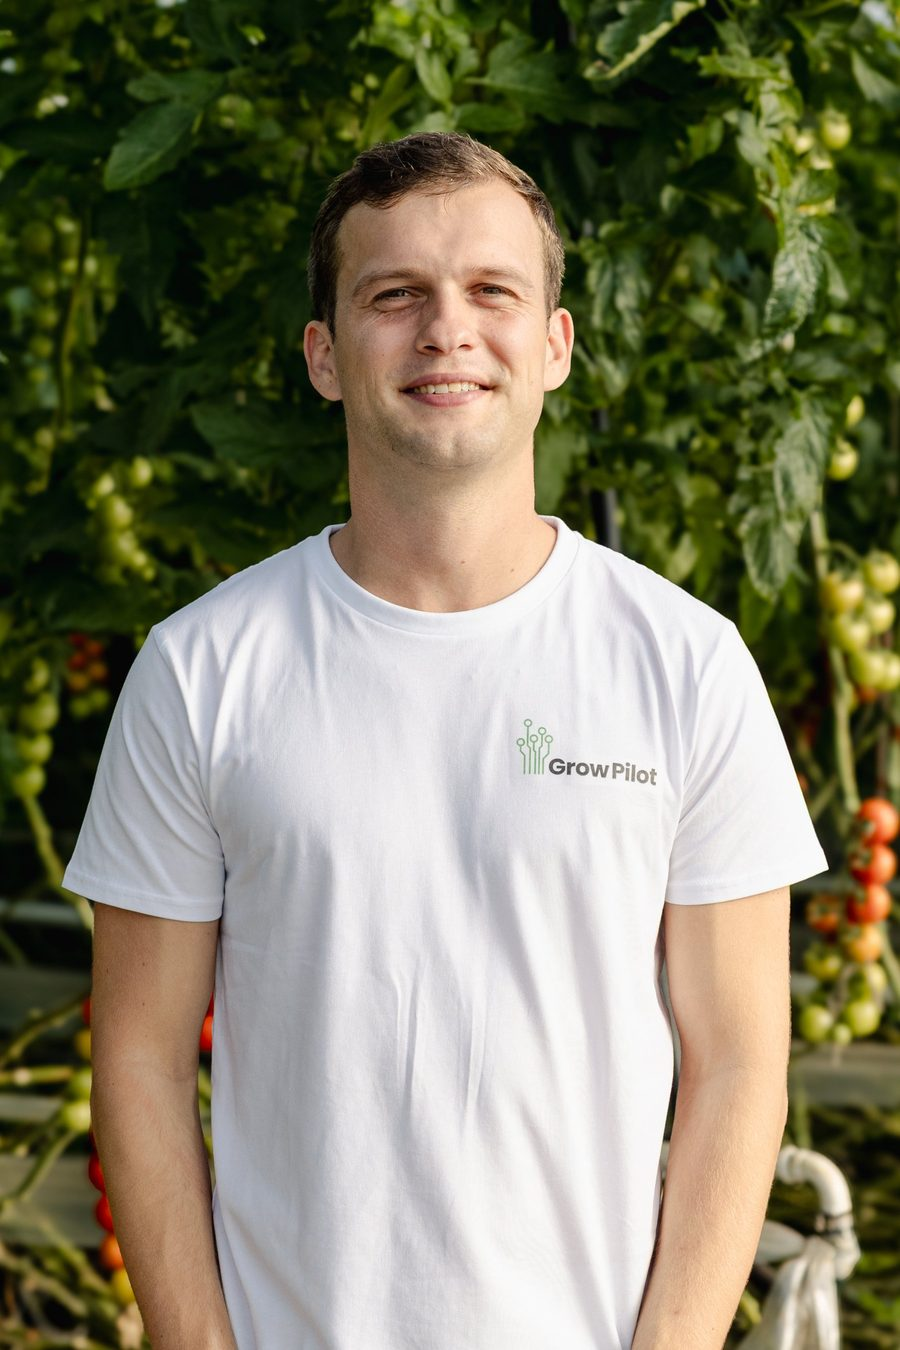
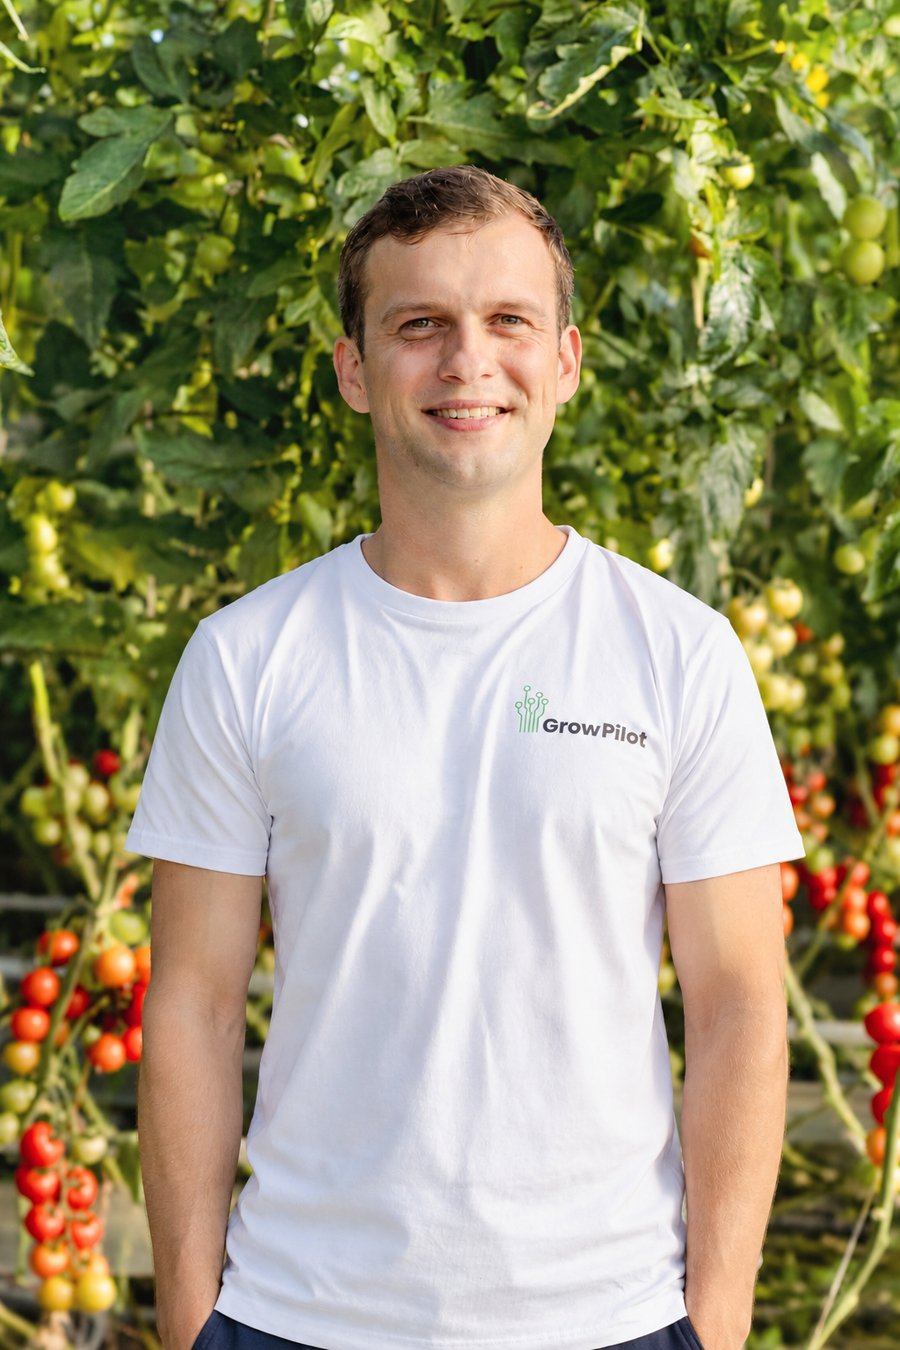
Add files via upload

diff --git a/over-ons/index.html b/over-ons/index.html
@@ -80,11 +80,11 @@ j=d.createElement(s),dl=l!='dataLayer'?'&l='+l:'';j.async=true;j.src=
   <div class="team">
     <div class="member">
       <div class="member-photo" style="background-image:url(/assets/img/lowie-2026.jpg);background-position:center 20%"></div>
-      <div><span class="badge badge-live">Teler</span><h3>Lowie Verbeek</h3><div class="member-role">Medeoprichter GrowPilot · Directeur BioVerbeek B.V.</div><p>Teelt biologisch paprika en tomaat op vier locaties in Velden. Zag dat de kwaliteit op de werkvloer te veel afhing van losse instructies en bedacht wat anders.</p><a href="https://www.linkedin.com/in/lowie-verbeek-ab9247170/" target="_blank" rel="noopener" class="textlink">LinkedIn →</a></div>
+      <div><span class="badge badge-live">Teler</span><h3>Lowie Verbeek</h3><div class="member-role">Bedenker GrowPilot · Directeur BioVerbeek B.V.</div><p>Teelt biologisch paprika en tomaat op vier locaties in Velden. Zag dat de kwaliteit op de werkvloer te veel afhing van losse instructies en bedacht wat anders.</p><a href="https://www.linkedin.com/in/lowie-verbeek-ab9247170/" target="_blank" rel="noopener" class="textlink">LinkedIn →</a></div>
     </div>
     <div class="member">
       <div class="member-photo" style="background-image:url(/assets/img/ramon-2026.jpg);background-position:center 20%"></div>
-      <div><span class="badge badge-live">Product &amp; klanten</span><h3>Ramon Bakker</h3><div class="member-role">Directeur &amp; Co-founder, GrowPilot</div><p>Vertaalt wat telers en voormannen aandragen naar ons development team. Aanspreekpunt voor demo's, inrichting en de wekelijkse begeleiding.</p><a href="https://www.linkedin.com/in/ramon-bakker-80317017/" target="_blank" rel="noopener" class="textlink">LinkedIn →</a></div>
+      <div><span class="badge badge-live">Product &amp; klanten</span><h3>Ramon Bakker</h3><div class="member-role">Directeur &amp; mede-eigenaar, GrowPilot B.V.</div><p>Vertaalt wat telers en voormannen aandragen naar ons development team. Aanspreekpunt voor demo's, inrichting en de wekelijkse begeleiding.</p><a href="https://www.linkedin.com/in/ramon-bakker-80317017/" target="_blank" rel="noopener" class="textlink">LinkedIn →</a></div>
     </div>
   </div>
 </section>

diff --git a/en/about/index.html b/en/about/index.html
@@ -77,11 +77,11 @@ j=d.createElement(s),dl=l!='dataLayer'?'&l='+l:'';j.async=true;j.src=
 <div class="team">
 <div class="member">
 <div class="member-photo" style="background-image:url(/assets/img/lowie-2026.jpg);background-position:center 20%"></div>
-<div><span class="badge badge-live">Grower</span><h3>Lowie Verbeek</h3><div class="member-role">Co-founder GrowPilot · Director BioVerbeek B.V.</div><p>Grows organic peppers and tomatoes on four sites in Velden. Saw that quality on the work floor depended too much on loose instructions and came up with something different.</p><a class="textlink" href="https://www.linkedin.com/in/lowie-verbeek-ab9247170/" rel="noopener" target="_blank">LinkedIn →</a></div>
+<div><span class="badge badge-live">Grower</span><h3>Lowie Verbeek</h3><div class="member-role">Creator of GrowPilot · Director BioVerbeek B.V.</div><p>Grows organic peppers and tomatoes on four sites in Velden. Saw that quality on the work floor depended too much on loose instructions and came up with something different.</p><a class="textlink" href="https://www.linkedin.com/in/lowie-verbeek-ab9247170/" rel="noopener" target="_blank">LinkedIn →</a></div>
 </div>
 <div class="member">
 <div class="member-photo" style="background-image:url(/assets/img/ramon-2026.jpg);background-position:center 20%"></div>
-<div><span class="badge badge-live">Product &amp; customers</span><h3>Ramon Bakker</h3><div class="member-role">Director &amp; Co-founder, GrowPilot</div><p>Translates what growers and foremen bring in for our development team. Point of contact for demos, setup and the weekly coaching.</p><a class="textlink" href="https://www.linkedin.com/in/ramon-bakker-80317017/" rel="noopener" target="_blank">LinkedIn →</a></div>
+<div><span class="badge badge-live">Product &amp; customers</span><h3>Ramon Bakker</h3><div class="member-role">Director &amp; co-owner, GrowPilot B.V.</div><p>Translates what growers and foremen bring in for our development team. Point of contact for demos, setup and the weekly coaching.</p><a class="textlink" href="https://www.linkedin.com/in/ramon-bakker-80317017/" rel="noopener" target="_blank">LinkedIn →</a></div>
 </div>
 </div>
 </section>

diff --git a/contact/index.html b/contact/index.html
@@ -60,7 +60,7 @@ j=d.createElement(s),dl=l!='dataLayer'?'&l='+l:'';j.async=true;j.src=
       <div><div class="fact-k">Telefoon</div><div class="fact-v"><a href="tel:+31854010084">085-401 00 84</a></div></div>
       <div><div class="fact-k">Openingstijden</div><div class="fact-v">Maandag t/m vrijdag<br>8:00 – 17:00 uur</div></div>
     </div>
-    <div class="person-card"><span class="person-photo" style="background-image:url(/assets/img/beeld2.jpg)"></span><div><div class="b">Ramon Bakker</div><div class="person-role">Directeur &amp; Co-founder, GrowPilot</div></div></div>
+    <div class="person-card"><span class="person-photo" style="background-image:url(/assets/img/ramon-2026.jpg);background-position:center 18%"></span><div><div class="b">Ramon Bakker</div><div class="person-role">Directeur &amp; mede-eigenaar, GrowPilot B.V.</div></div></div>
   </div>
   <div class="form-card">
     <div class="form-head"><h2 class="h3-form">Stuur een bericht</h2></div>
@@ -83,7 +83,7 @@ j=d.createElement(s),dl=l!='dataLayer'?'&l='+l:'';j.async=true;j.src=
 </section>
 
 <section class="section grid-2 proof" data-reveal style="padding-top:40px">
-  <div class="proof-photo" style="background-image:url(/assets/img/kas.webp);min-height:320px"></div>
+  <div class="proof-photo" style="background-image:url(/assets/img/ramon-2026.jpg);background-position:center 8%;min-height:320px"></div>
   <div class="side-card" style="display:flex;flex-direction:column;justify-content:center;padding:40px 44px">
     <div class="label">Liever meteen kijken?</div>
     <h2 class="h2-small">Plan een demo of kijk mee in de online sessie</h2>

diff --git a/en/contact/index.html b/en/contact/index.html
@@ -60,7 +60,7 @@ j=d.createElement(s),dl=l!='dataLayer'?'&l='+l:'';j.async=true;j.src=
 <div><div class="fact-k">Phone</div><div class="fact-v"><a href="tel:+31854010084">085-401 00 84</a></div></div>
 <div><div class="fact-k">Opening hours</div><div class="fact-v">Monday to Friday<br/>8:00 – 17:00 (CET)</div></div>
 </div>
-<div class="person-card"><span class="person-photo" style="background-image:url(/assets/img/beeld2.jpg)"></span><div><div class="b">Ramon Bakker</div><div class="person-role">Director &amp; Co-founder, GrowPilot</div></div></div>
+<div class="person-card"><span class="person-photo" style="background-image:url(/assets/img/ramon-2026.jpg);background-position:center 18%"></span><div><div class="b">Ramon Bakker</div><div class="person-role">Director &amp; co-owner, GrowPilot B.V.</div></div></div>
 </div>
 <div class="form-card">
 <div class="form-head"><h2 class="h3-form">Send a message</h2></div>
@@ -82,7 +82,7 @@ j=d.createElement(s),dl=l!='dataLayer'?'&l='+l:'';j.async=true;j.src=
 </div>
 </section>
 <section class="section grid-2 proof" data-reveal="" style="padding-top:40px">
-<div class="proof-photo" style="background-image:url(/assets/img/kas.webp);min-height:320px"></div>
+<div class="proof-photo" style="background-image:url(/assets/img/ramon-2026.jpg);background-position:center 8%;min-height:320px"></div>
 <div class="side-card" style="display:flex;flex-direction:column;justify-content:center;padding:40px 44px">
 <div class="label">Rather see it right away?</div>
 <h2 class="h2-small">Book a demo or sit in on the online session</h2>
